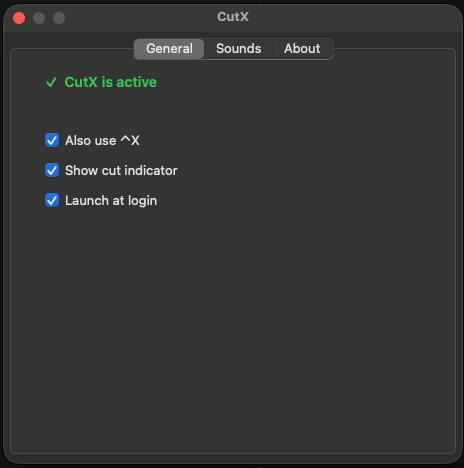
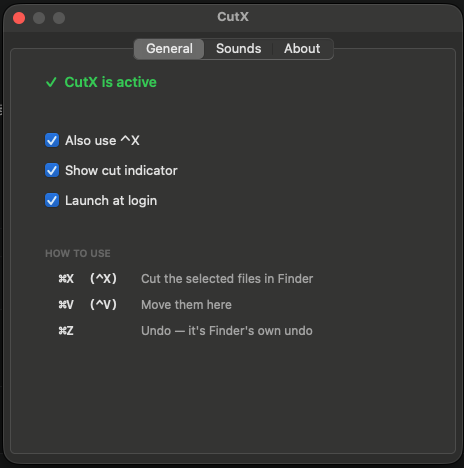
feat: add a keyboard reference to the General tab
Fills the space the permission checklist leaves behind once setup is
done, and surfaces the one thing users would otherwise never discover:
undo works, because the move is Finder's.

Shows the Control alternatives in parentheses only while that setting is
on, so the reference always describes the keys that actually work.

diff --git a/Sources/CutX/GeneralTabView.swift b/Sources/CutX/GeneralTabView.swift
@@ -10,6 +10,9 @@ final class GeneralTabView: NSView {
     )
     private let hint = NSTextField(labelWithString: "Find CutX in the list and switch it on:")
     private var toggles: [(NSButton, () -> Bool)] = []
+    private var referenceViews: [NSView] = []
+    /// The two key labels that gain a "(⌃X)" alternative when that setting is on.
+    private var referenceKeyLabels: [(field: NSTextField, primary: String, alternate: String)] = []
 
     init(preferences: Preferences) {
         self.preferences = preferences
@@ -62,6 +65,68 @@ final class GeneralTabView: NSView {
                           self?.preferences.launchAtLogin = wanted
                       }
                   })
+
+        buildQuickReference(below: y - 24)
+    }
+
+    /// Fills the space the permission block leaves behind once everything is
+    /// granted. The ⌘Z line is the one that matters: most people will not guess
+    /// that undo works, and knowing it does is what makes a tool that moves your
+    /// files feel safe to try.
+    private func buildQuickReference(below top: CGFloat) {
+        let rule = NSBox(frame: NSRect(x: 30, y: top, width: 400, height: 1))
+        rule.boxType = .separator
+        addSubview(rule)
+        referenceViews.append(rule)
+
+        let heading = NSTextField(labelWithString: "HOW TO USE")
+        heading.font = .systemFont(ofSize: 10, weight: .semibold)
+        heading.textColor = .tertiaryLabelColor
+        heading.frame = NSRect(x: 30, y: top - 26, width: 200, height: 14)
+        addSubview(heading)
+        referenceViews.append(heading)
+
+        let rows = [
+            ("⌘X", "⌃X", "Cut the selected files in Finder"),
+            ("⌘V", "⌃V", "Move them here"),
+            ("⌘Z", "", "Undo — it's Finder's own undo"),
+        ]
+
+        var rowY = top - 54
+        for (primary, alternate, explanation) in rows {
+            let key = NSTextField(labelWithString: primary)
+            key.font = .monospacedSystemFont(ofSize: 12, weight: .semibold)
+            // Left-aligned so ⌘X, ⌘V and ⌘Z all start at the same point; right
+            // alignment leaves ⌘Z stranded once the others gain "(⌃X)".
+            key.alignment = .natural
+            key.frame = NSRect(x: 44, y: rowY, width: 84, height: 18)
+            addSubview(key)
+            referenceViews.append(key)
+            if !alternate.isEmpty {
+                referenceKeyLabels.append((key, primary, alternate))
+            }
+
+            let text = NSTextField(labelWithString: explanation)
+            text.font = .systemFont(ofSize: 12)
+            text.textColor = .secondaryLabelColor
+            text.frame = NSRect(x: 126, y: rowY, width: 300, height: 18)
+            addSubview(text)
+            referenceViews.append(text)
+
+            rowY -= 26
+        }
+        updateReferenceKeys()
+    }
+
+    /// Shows the Control alternative only while it is actually active, so the
+    /// reference always describes the keys that really work right now.
+    private func updateReferenceKeys() {
+        let alsoControl = preferences.controlHotkeys
+        for entry in referenceKeyLabels {
+            entry.field.stringValue = alsoControl
+                ? "\(entry.primary)  (\(entry.alternate))"
+                : entry.primary
+        }
     }
 
     private func addToggle(
@@ -88,6 +153,7 @@ final class GeneralTabView: NSView {
         toggleSetters[sender.tag](sender.state == .on)
         // Re-read the source of truth: the setter may have refused.
         sender.state = toggles[sender.tag].1() ? .on : .off
+        updateReferenceKeys()
     }
 
     /// Called once a second while the window is open.
@@ -106,6 +172,8 @@ final class GeneralTabView: NSView {
             button.isHidden = !ready
             button.state = get() ? .on : .off
         }
+        for view in referenceViews { view.isHidden = !ready }
+        updateReferenceKeys()
     }
 
     func startAnimating() {
